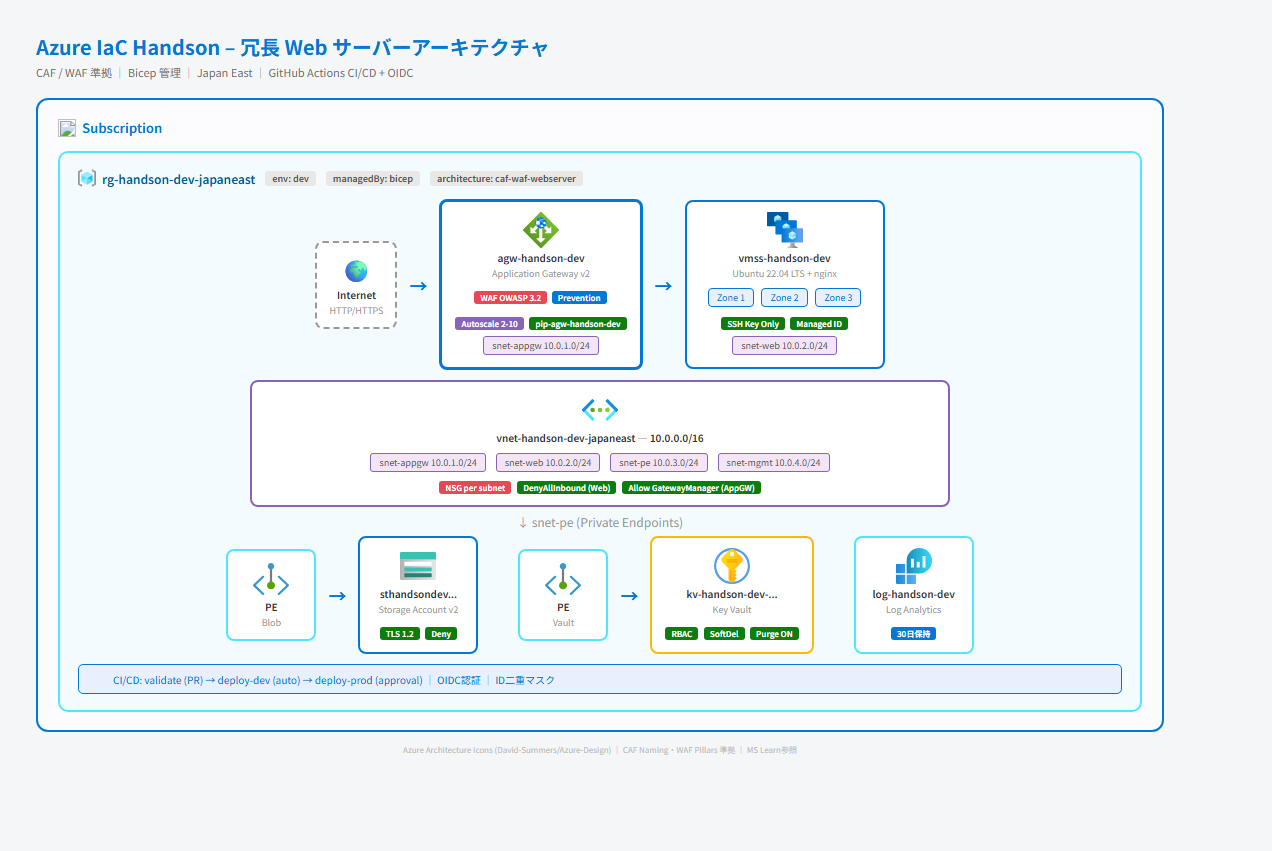
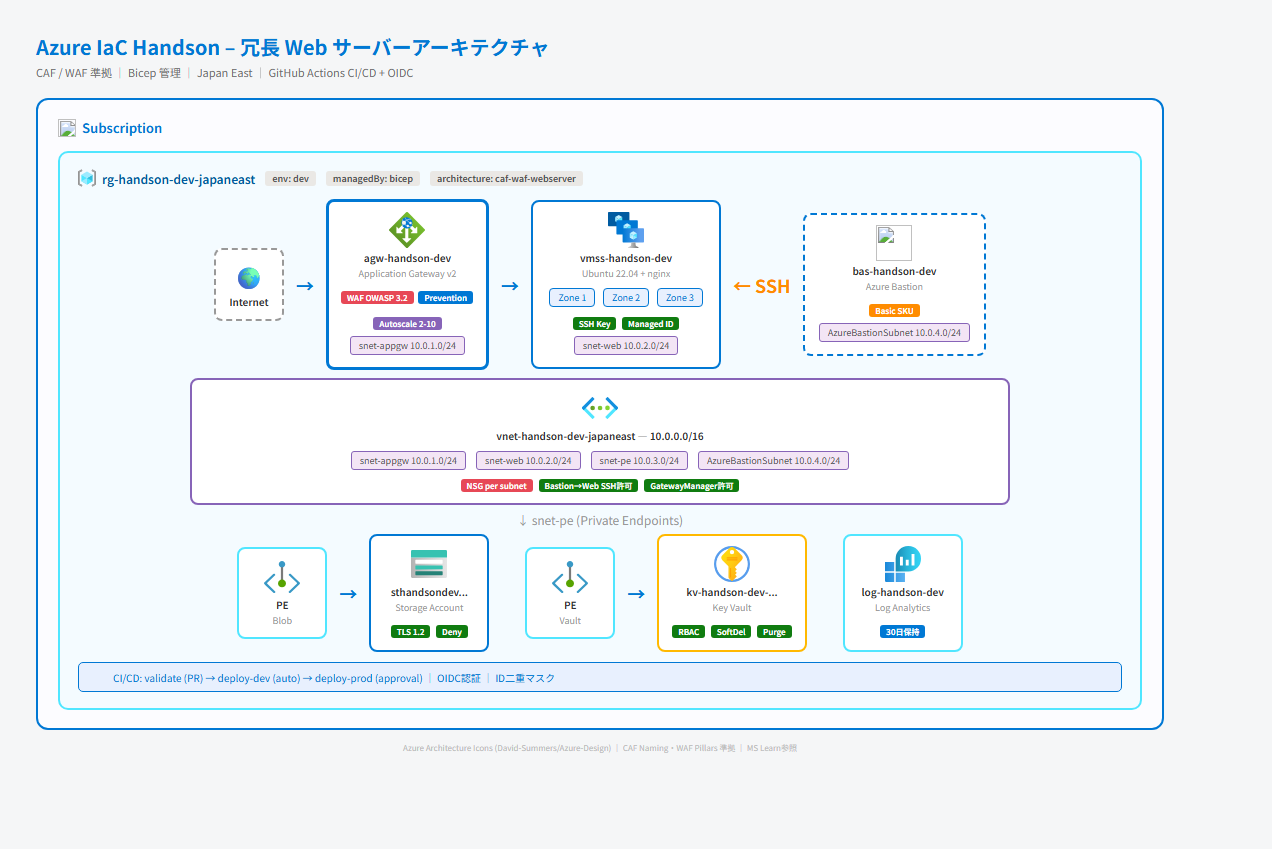
feat: add Azure Bastion (Basic SKU) for secure VM management
- New: bastion.bicep module (Basic SKU, lowest cost)
- Network: renamed snet-mgmt to AzureBastionSubnet (required)
- Network: added Bastion-specific NSG rules (HTTPS, GatewayManager, etc.)
- Network: Web NSG now allows SSH from Bastion subnet
- Updated: architecture diagram, README, security checklist

diff --git a/README.md b/README.md
@@ -21,6 +21,7 @@ CAF / WAF 準拠の冗長 Web サーバーアーキテクチャを Azure Bicep +
 | Storage Account | `st` | 診断ログ・ブート診断 | TLS 1.2, Public Deny, PE |
 | Key Vault | `kv` | TLS証明書・シークレット | RBAC, SoftDelete, PE |
 | Log Analytics | `log` | 統合監視・ログ集約 | 30日保持 |
+| Azure Bastion | `bas` | VM 管理アクセス (SSH over TLS) | Basic SKU, NSG 保護 |
 | Private Endpoint x2 | `pep` | Storage Blob / Key Vault | snet-pe 経由 |
 
 ---
@@ -49,6 +50,7 @@ CAF / WAF 準拠の冗長 Web サーバーアーキテクチャを Azure Bicep +
 | Storage TLS 1.2 + Public Deny | ✅ |
 | VMSS SSH Key Only (パスワード禁止) | ✅ |
 | VMSS System-Assigned Managed Identity | ✅ |
+| Azure Bastion 経由の管理アクセス (Public SSH なし) | ✅ |
 | CI/CD Azure ID 二重マスク | ✅ |
 | OIDC 認証 (長期クレデンシャルなし) | ✅ |
 
@@ -75,6 +77,7 @@ handson-speckit/
 │   │   ├── vmss.bicep                 # VMSS (Ubuntu + nginx, Zone 1/2/3)
 │   │   ├── appgateway.bicep           # Application Gateway v2 + WAF
 │   │   ├── log-analytics.bicep        # Log Analytics ワークスペース
+│   │   ├── bastion.bicep              # Azure Bastion (Basic SKU)
 │   │   ├── storage.bicep              # Storage Account + PE
 │   │   └── keyvault.bicep             # Key Vault + PE
 │   └── parameters/
